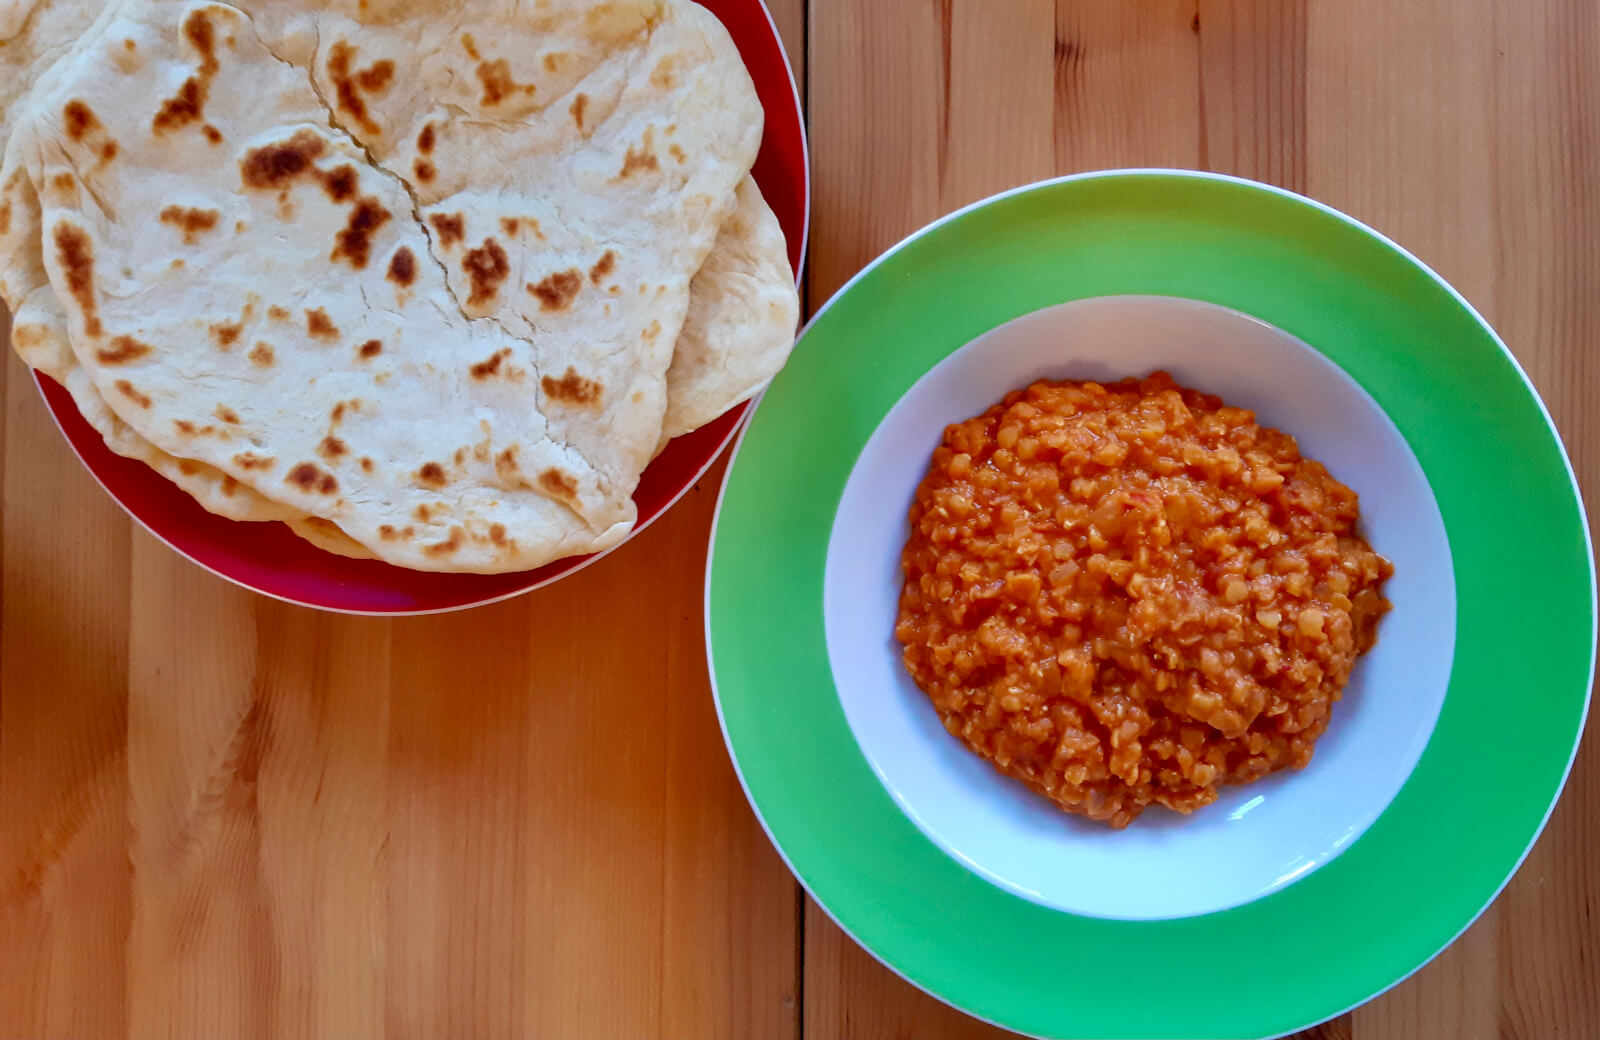
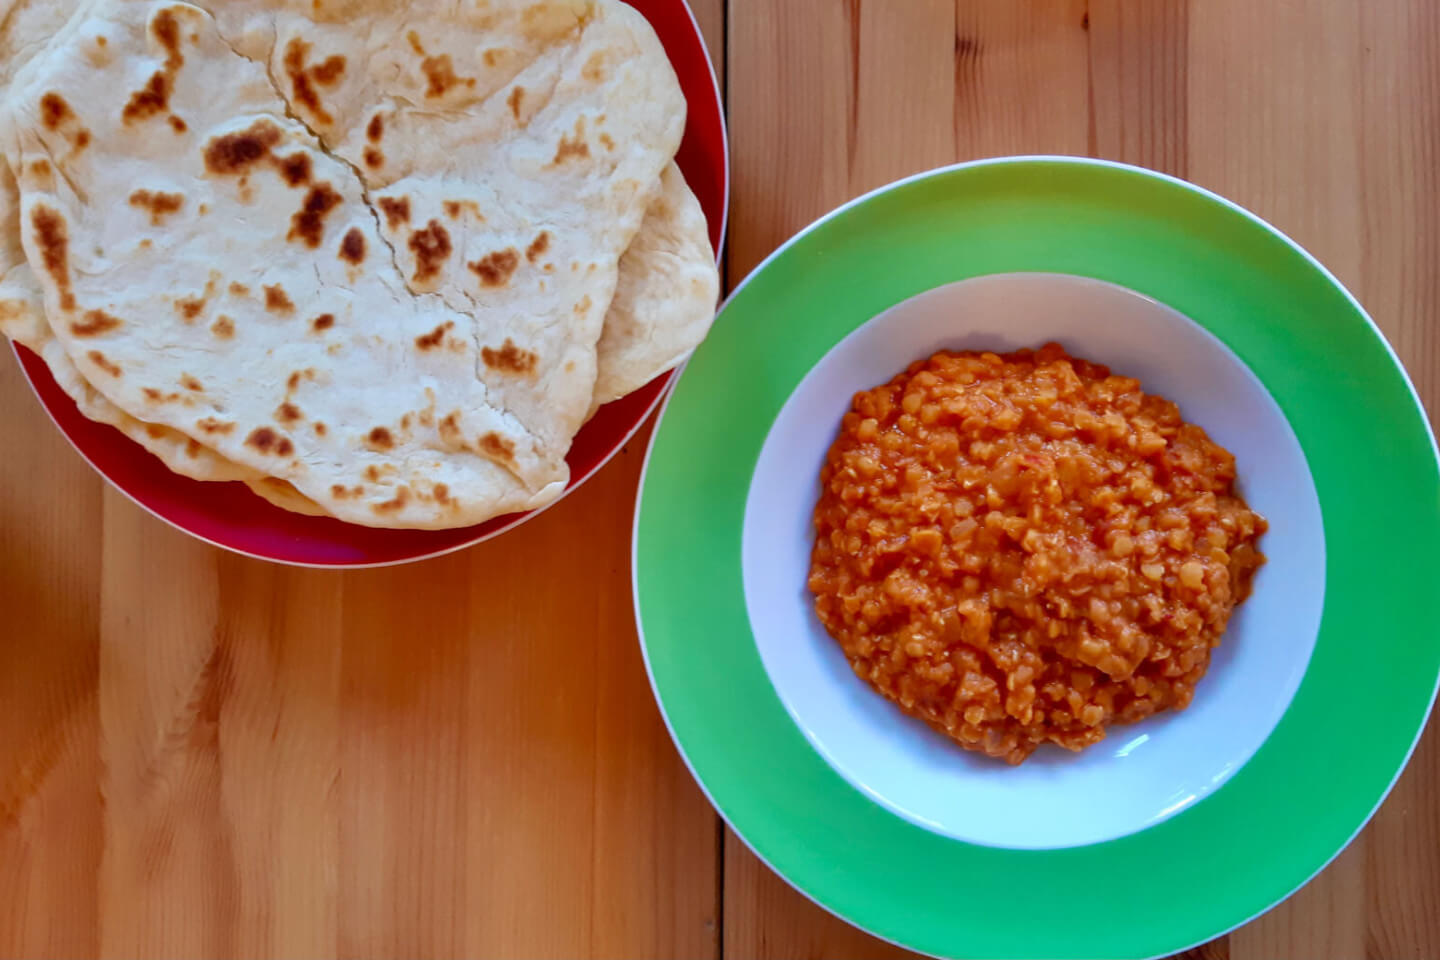
Resize all images to 3:2 1440x960

diff --git a/README.md b/README.md
@@ -14,7 +14,7 @@ First, fork this repository and clone it: `gh repo fork riesinger/nononsensecook
 Then, install all the dependencies with `npm install` and run the script `npm run new-recipe`.
 This will ask you a few questions and then creates recipe files in the `recipes` directory.
 Edit the file to contain your recipe. You can take the other recipes as an inspiration on how to fill out the YAML file.
-If you have an image for your recipe, place a 1600x1040px version of it in the `public/img/recipes` directory (any resolution will do, but please make it the given aspect ratio 🙃).
+If you have an image for your recipe, place a 1440x960 version of it in the `public/img/recipes` directory (any resolution will do, but please make it the given aspect ratio of 3:2 🙃).
 
 To run the service locally, run `npm start dev` and head to `http://localhost:3000`. You should be able to see your recipe in the "All Recipes" section or via the search. Note that you need to restart your dev server when you add a new recipe. Also, the search is using the "recipe index", which you can generate using `npm run generate-recipe-index`.
 
